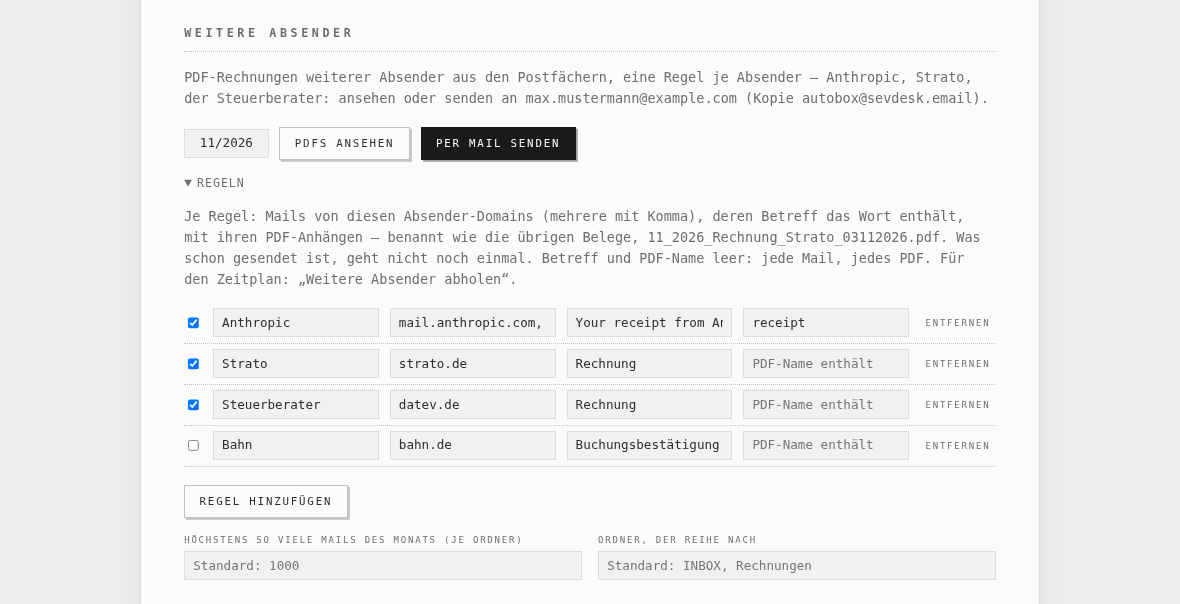
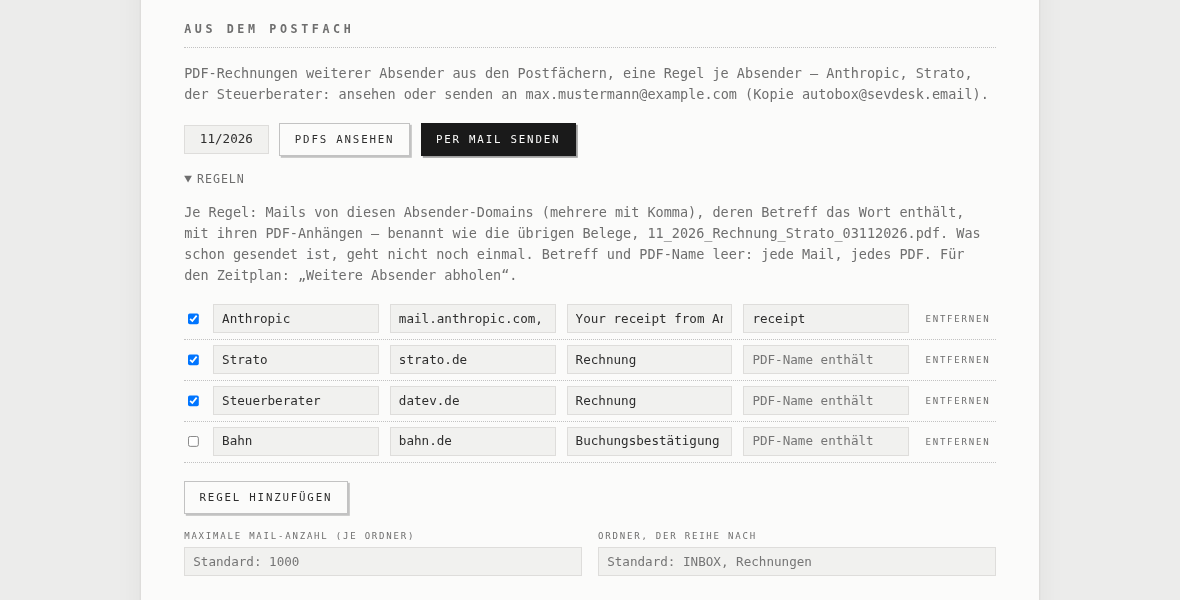
README and screenshots anew; Kundenrechnungen aus dem Postfach ablegen
Screenshots of Reisekosten, Kunden, Kundenrechnung, the rules and the
storage as the page is now. The job's title says whose invoices; the
Kundenrechnung card without "Nichts wird gemailt".

Claude-Session: https://claude.ai/code/session_01QaAjf99LPfJxqVnWJb8cvm

diff --git a/web/app.js b/web/app.js
@@ -211,7 +211,7 @@ async function loadOverview() {
   for (const span of document.querySelectorAll('[data-mail-to]')) span.textContent = mailTo();
 }
 
-const SHORT = { 'travel-expense': T('Reisekosten', 'Travel'), 'amazon-invoice': 'Amazon', 'anthropic-invoice': 'Anthropic', 'apple-invoice': 'Apple', 'vodafone-invoice': 'Vodafone', 'harvest-invoice': T('Kundenrechnung', 'Invoice'), 'mail-receipts': T('Weitere Absender', 'Further senders'), 'invoice-mails': T('Rechnungen', 'Invoices') };
+const SHORT = { 'travel-expense': T('Reisekosten', 'Travel'), 'amazon-invoice': 'Amazon', 'anthropic-invoice': 'Anthropic', 'apple-invoice': 'Apple', 'vodafone-invoice': 'Vodafone', 'harvest-invoice': T('Kundenrechnung', 'Invoice'), 'mail-receipts': T('Weitere Absender', 'Further senders'), 'invoice-mails': T('Kundenrechnungen', 'Invoices') };
 
 /** "nächster Lauf: Vodafone · Sa., 21.11. 07:30", from the schedule. */
 function nextText(next) {
@@ -247,6 +247,9 @@ const TITLES = [
   [/^Weitere Absender (\S+) ansehen/, 'Further senders $1, view'],
   [/^Weitere Absender (\S+) senden/, 'Further senders $1, send'],
   [/^Kundenrechnung aus Harvest \(laufender Monat\)/, 'Invoice from Harvest (current month)'],
+  [/^Kundenrechnungen aus dem Postfach ablegen/, 'Store invoices from the mailbox'],
+  [/^Kundenrechnungen (\S+) ansehen/, 'Invoices $1, view'],
+  [/^Kundenrechnungen (\S+) ablegen/, 'Invoices $1, store'],
   [/^Reisekosten (\S+) erzeugen/, 'Travel expenses $1, view'],
   [/^Reisekosten (\S+) senden/, 'Travel expenses $1, send'],
   [/^Anthropic-Belege (\S+) ansehen/, 'Anthropic receipts $1, view'],
@@ -1679,7 +1682,7 @@ function renderInvoiceRules(cfg) {
   cfg.InvoiceMails ??= {};
   cfg.InvoiceMails.Rules ??= [];
   return ruleList(cfg.InvoiceMails.Rules, T('Kunde, Korrespondent in Paperless', 'Customer, correspondent in Paperless'), T('Absender-Domain, z. B. sevdesk.de', 'Sender domain, e.g. sevdesk.de'),
-    T('Je Regel ein Kunde: Mails von diesen Absender-Domains (mehrere mit Komma), deren Betreff das enthält – „Kopie von Rechnung“, oder „Bestellung Nr. 4500012345“ für einen Kunden. Die Nummer kommt aus dem PDF-Namen (0203.pdf), sonst aus dem Betreff („Nr. 0203“); der Monat aus dem Zeitnachweis der Mail, sonst aus ihrem Datum. Der Zeitnachweis selbst ist keine Rechnung: er geht nur in den Ordner, wenn er dort fehlt. Für den Zeitplan: „Rechnungen aus dem Postfach ablegen“ – sieht den laufenden Monat und den davor an.',
+    T('Je Regel ein Kunde: Mails von diesen Absender-Domains (mehrere mit Komma), deren Betreff das enthält – „Kopie von Rechnung“, oder „Bestellung Nr. 4500012345“ für einen Kunden. Die Nummer kommt aus dem PDF-Namen (0203.pdf), sonst aus dem Betreff („Nr. 0203“); der Monat aus dem Zeitnachweis der Mail, sonst aus ihrem Datum. Der Zeitnachweis selbst ist keine Rechnung: er geht nur in den Ordner, wenn er dort fehlt. Für den Zeitplan: „Kundenrechnungen aus dem Postfach ablegen“ – sieht den laufenden Monat und den davor an.',
       'A customer per rule: mails from these sender domains (several with commas) whose subject contains this – “Kopie von Rechnung”, or “Bestellung Nr. 4500012345” for one customer. The number comes from the PDF\'s name (0203.pdf), else from the subject (“Nr. 0203”); the month from the mail\'s work log, else from its date. The work log is no invoice: it only goes to the folder if missing there. For the schedule: “Store invoices from the mailbox” – it looks at the current month and the one before.'));
 }
 

diff --git a/web/index.html b/web/index.html
@@ -164,7 +164,7 @@
       </details>
 
       <h2><span lang="de">Aus dem Postfach</span><span lang="en">From the mailbox</span></h2>
-      <p class="muted"><span lang="de">Die Kopie jeder versendeten Rechnung, die sevDesk schickt („Kopie von Rechnung Nr. 0203 …“): die Rechnung als 11_2026_Rechnung_0203.pdf in den Ordner für Rechnungen (Einstellungen, Ablage), neben den Zeitnachweis, und an Paperless mit dem Kunden als Korrespondent. Was schon dort liegt, bleibt. Nichts wird gemailt.</span><span lang="en">The copy of each invoice sent that sevDesk mails (“Kopie von Rechnung Nr. 0203 …”): the invoice as 11_2026_Rechnung_0203.pdf to the folder for invoices (Settings, Storage), beside the work log, and to Paperless with the customer as correspondent. What is there already stays. Nothing is mailed.</span></p>
+      <p class="muted"><span lang="de">Die Kopie jeder versendeten Rechnung, die sevDesk schickt („Kopie von Rechnung Nr. 0203 …“): die Rechnung als 11_2026_Rechnung_0203.pdf in den Ordner für Rechnungen (Einstellungen, Ablage), neben den Zeitnachweis, und an Paperless mit dem Kunden als Korrespondent. Was schon dort liegt, bleibt.</span><span lang="en">The copy of each invoice sent that sevDesk mails (“Kopie von Rechnung Nr. 0203 …”): the invoice as 11_2026_Rechnung_0203.pdf to the folder for invoices (Settings, Storage), beside the work log, and to Paperless with the customer as correspondent. What is there already stays.</span></p>
       <p class="last" data-last="invoice-mails"></p>
       <div class="actions">
         <input class="month receipt-month" data-for="rechnungen" inputmode="numeric" autocomplete="off" aria-label="Monat (M/JJJJ)" data-en-aria-label="Month (M/YYYY)">

diff --git a/schedule.go b/schedule.go
@@ -319,7 +319,7 @@ var scheduledJobs = map[string]scheduledJob{
 	"apple-invoice":    {"Apple-Rechnungen abholen", noFiles(runAppleInvoice)},
 	"vodafone-invoice": {"Vodafone-Rechnungen abholen", noFiles(runVodafoneInvoice)},
 	"mail-receipts":    {"Weitere Absender abholen", noFiles(runMailReceipts)},
-	"invoice-mails":    {"Rechnungen aus dem Postfach ablegen", noFiles(runInvoiceMails)},
+	"invoice-mails":    {"Kundenrechnungen aus dem Postfach ablegen", noFiles(runInvoiceMails)},
 	"harvest-invoice": {"Kundenrechnung aus Harvest (laufender Monat)", func(cfg *Config) ([]File, error) {
 		now := time.Now()
 		return withFile(runHarvestInvoice(cfg, now.Year(), now.Month(), false))

diff --git a/server.go b/server.go
@@ -597,7 +597,7 @@ func (s *server) invoiceMailsRun(store bool) http.HandlerFunc {
 			verb = "ablegen"
 		}
 		at := time.Date(year, month, 1, 0, 0, 0, 0, time.Local)
-		s.start(w, "invoice-mails", fmt.Sprintf("Rechnungen %d/%d %s", month, year, verb), func() ([]File, error) {
+		s.start(w, "invoice-mails", fmt.Sprintf("Kundenrechnungen %d/%d %s", month, year, verb), func() ([]File, error) {
 			var pdfs []email.Attachment
 			err := invoiceMails(cfg, at, store, &pdfs)
 			var files []File

diff --git a/README.md b/README.md
@@ -130,11 +130,11 @@ A button that sends or transfers something — a mail, the draft to sevDesk, a P
 |------|--------------|
 | **Abschluss** | The first card, the overview: the month's state at a glance — a green tick when every source is done and the invoice drafted in sevDesk, a road block while it is under way, a red cross while nothing has happened yet — then a month's books, source by source: the receipts sent for it, with when, each with an (×) that takes it out of the ledger — several at a time, the next run sends them again, until then struck through; *nichts gefunden* where a run looked and found none; *offen*, in red, where the schedule runs a source that has neither sent nor looked yet; its last run's error, and its next run. Until the closing day the month before, after it the current one; ‹ › for others. Beneath, *Steuerberater informieren*: the mail to the tax adviser as set, *Belege 11/2026* — with *Alle Belege als ZIP anhängen* the month's receipts from the storage zipped beside it — and when he was told. See [Never twice, and the month's closing](#never-twice-and-the-months-closing). |
 | **Zeitplan** | The schedule: each job with its cron expression (`minute hour day month weekday`, as in crontab, with Quartz's forms for days — see below), and beneath it in one line when it last ran — *manuell* or *zeitgesteuert*, the same day as *vor 2 h* — and its next runs, as many as fit; and a switch to turn it off. Runs by hand start on their own cards. Replaces the crontab entries — keep only one of the two, or jobs run twice. |
-| **Reisekosten** | A month calendar: which client gets which day, day trips and overnight trips, holidays, blocked days, and each day's meal allowance and mileage, with the month's totals. *Zuordnungen* gives date ranges to a client explicitly; *Gesperrte Tage* blocks vacation and the like. Both are edited as drafts — add, *bearbeiten*, *entfernen* — and saved with the *Speichern* at the bottom; until then nothing changes. *PDFs ansehen* generates the two PDFs to look at; *Per Mail senden* sends them to the address under Einstellungen › E-Mail. Below: the clients — country, state, distance, meal rates — the name on the PDFs and the Christmas week. |
-| **Belege** | Amazon, Apple and Vodafone invoices on demand, each with its settings: the Amazon and Vodafone logins, the Apple mail filter. Apple with *PDFs ansehen*, fetching them for download, and *Per Mail senden*, sending them too, after asking; Amazon and Vodafone with *Per Mail senden* only, as each run is a login, Vodafone's held to one in 28 days: Amazon and Apple by month — `11/2026`, the current one at first — Vodafone the current month's. The schedule sends the current month's. Last, *Weitere Absender*: the rules for further senders, by month to look at or to send — see [mail-receipts](#module-mail-receipts). |
+| **Reisekosten** | A month calendar: which client gets which day, day trips and overnight trips, holidays, blocked days, and each day's meal allowance and mileage, with the month's totals. *Zuordnungen* gives date ranges to a client explicitly; *Gesperrte Tage* blocks vacation and the like, *Weihnachtswoche frei* beneath. Both are edited as drafts — add, *bearbeiten*, *entfernen* — and saved with the *Speichern* at the bottom; until then nothing changes. *PDFs ansehen* generates the two PDFs to look at; *Per Mail senden* sends them to the address under Einstellungen › E-Mail. Below: the clients — country, state, distance, meal rates — and the inland rates. |
+| **Belege** | Apple, Amazon and Vodafone invoices on demand, each with its settings: the Apple mail filter, the Amazon and Vodafone logins. Apple with *PDFs ansehen*, fetching them for download, and *Per Mail senden*, sending them too, after asking; Amazon and Vodafone with *Per Mail senden* only, as each run is a login, Vodafone's held to one in 28 days: Amazon and Apple by month — `11/2026`, the current one at first — Vodafone the current month's. The schedule sends the current month's. Last, *Aus dem Postfach*: the rules for further senders, by month to look at or to send — see [mail-receipts](#module-mail-receipts). |
 | **Kundenrechnung** | *Aus Harvest anlegen* runs harvest-invoice for the month given next to it as on the command line (`11/2026`): the hours come from the Harvest API, and the month's work log PDF comes with the run for download — on iCloud Drive, say. *Nur Zeitnachweis* makes only the work log. Fewer hours than the days booked × 8 log a warning with the link to the time entries in Harvest: each day with an entry a workday of 8 hours at least, however many days a week are worked for the client. A project of the work log over its budget in Harvest — hours or money, as Harvest's project budget report has it — logs a warning too, with the link to the project; a monthly budget only for the current month, Harvest reporting only its spending. As a fallback, behind its own flap at the foot of the card, *Manuelle Eingabe*: *Leistung von*, *Leistung bis* and *Stunden gesamt* typed in — the current month at first — or filled from a work log PDF dropped in, Harvest's or one from here, and correctable either way; then *Entwurf in sevDesk anlegen* creates the draft invoice for the client, article and reference of the settings beneath — with the same duplicate check. Then *Aus dem Postfach*: the invoices sent, from the copies sevDesk mails, by month to look at (*PDFs ansehen*) or to store (*Ablegen*), with their rules folded away — see [Invoices from the mailbox](#invoices-from-the-mailbox). Folded away last on the card, *Einstellungen Kundenrechnung*: the sevDesk client, article and reference, the sevDesk login, the Harvest API token and the client's name in Harvest. |
 | **Protokoll** | The last 50 runs; a click opens a run's output under it, with the PDFs it made to download. The history is kept in `feed-my-accounting-jobs.json` next to the config; the PDFs until the server restarts, then listed by name only. Web addresses in the output are links. *Löschen* at the bottom, after *Sicher?*, empties it. |
-| **Einstellungen** | What all of them share: the **company** — its name, and its logo (PNG or JPEG, kept beside the configuration as `feed-my-accounting-logo.png`), which the work log shows instead of the name — the **employees** — the one ticked is the Lieferant on the travel expenses and whose hours in Harvest make the work log and the invoice, named as in Harvest; shown at the top right as *Mitarbeiter* — the mail account, the storage, **Paperless**, **Pushover** with *Test senden*, and the web interface's address and password. |
+| **Einstellungen** | What all of them share: the **company** — its name, and its logo (PNG or JPEG, kept beside the configuration as `feed-my-accounting-logo.png`), which the work log shows instead of the name — the **employees** — the one ticked is the Lieferant on the travel expenses and whose hours in Harvest make the work log and the invoice, named as in Harvest; shown at the top right as *Mitarbeiter* — the mail account and further mailboxes, the storage (*rclone benutzen*) and **Paperless** (*Paperless benutzen*, tags for receipts and for invoices) — each for receipts and invoices alike — **Pushover** with *Test senden*, the tax adviser's mail, and the web interface's address and password. |
 
 Passwords are never sent to the page: leave a password field empty to keep it. A field left empty shows its default as a hint.
 
@@ -399,7 +399,7 @@ paperless:
 
 Paperless on a NAS that is off most of the time is fine: each receipt waits in `feed-my-accounting-paperless/` beside the configuration until Paperless takes it — tried right after sending and every ten minutes while the web interface runs. Not reaching Paperless never fails a run; the log says how many wait. What Paperless took is noted in `feed-my-accounting-paperless/uploaded`, by its SHA-256, and not queued again — and Paperless refuses a file it has already, so a receipt uploaded twice is still one document. The customers' invoices go there too: see [Invoices from the mailbox](#invoices-from-the-mailbox).
 
-<p align="center"><img src="docs/storage.png" alt="Einstellungen: Ablage (rclone) with rclone benutzen ticked, the remote icloud and the folder Belege/{YYYY}/{MM}; beneath, Paperless with Paperless benutzen ticked, the address http://nas:8000, the API token saved and the tag Firma" width="760"></p>
+<p align="center"><img src="docs/storage.png" alt="Einstellungen: Ablage (rclone) with rclone benutzen ticked, the remote icloud, the folders Belege/{YYYY}/{MM} and Rechnungen/{YYYY}; beneath, Paperless with Paperless benutzen ticked, the address http://nas:8000, the API token saved, the tags Firma, Belege for receipts and Firma, Rechnungen for invoices" width="760"></p>
 
 ### Never twice, and the month's closing
 
@@ -709,7 +709,7 @@ harvest-invoice can run repeatedly without creating duplicate invoices: with **`
 
 ### Invoices from the mailbox
 
-Sent from sevDesk with a copy to yourself, each invoice comes back: *Kopie von Rechnung Nr. 0203 von … zur Bestellung Nr. …*, from sevdesk.de, with `0203.pdf` and the work log. The job **invoice-mails** — *Rechnungen aus dem Postfach ablegen* on the schedule, or *Ablegen* on the Kundenrechnung card by month — takes them by rules, as mail-receipts does the further senders' receipts, a rule per customer: the sender's domains, what the subject contains — *Kopie von Rechnung*, or the customer's *Bestellung Nr.* to tell customers apart — and what the PDF's name contains, if anything. sevDesk changing its mail, the rule is changed on the card. Each invoice:
+Sent from sevDesk with a copy to yourself, each invoice comes back: *Kopie von Rechnung Nr. 0203 von … zur Bestellung Nr. …*, from sevdesk.de, with `0203.pdf` and the work log. The job **invoice-mails** — *Kundenrechnungen aus dem Postfach ablegen* on the schedule, or *Ablegen* on the Kundenrechnung card by month — takes them by rules, as mail-receipts does the further senders' receipts, a rule per customer: the sender's domains, what the subject contains — *Kopie von Rechnung*, or the customer's *Bestellung Nr.* to tell customers apart — and what the PDF's name contains, if anything. sevDesk changing its mail, the rule is changed on the card. Each invoice:
 
 - is named after its number, `11_2026_Rechnung_0203.pdf`: the number the PDF's (`0203.pdf`, `RE-0203.pdf`), else the subject's (*Nr. 0203*); the month the work log's in the same mail, else the mail's — none found, it is left out, said so
 - goes to the storage's *Ordner für Rechnungen*, if rclone is used, beside its work log — once: one of that name there stays as it is. The mail's work log goes there too, should it be missing

diff --git a/CHANGELOG.md b/CHANGELOG.md
@@ -15,10 +15,12 @@ and this project adheres to [Semantic Versioning](https://semver.org/spec/v2.0.0
 ### Changed
 
 - **rclone benutzen, Paperless benutzen**: the switches on *Einstellungen*, before *Belege ablegen* and *Belege hochladen*, so named as they hold for the receipts and the invoices alike.
+- **The page**: on Belege, Apple first and the further senders' section called *Aus dem Postfach*, as on Kundenrechnung; *Weihnachtswoche frei* beneath *Gesperrte Tage*; *Maximale Mail-Anzahl (je Ordner)*; on Kundenrechnung, *Aus dem Postfach* without *Nichts wird gemailt*; *Weitere Postfächer* said to be searched for invoices too; shorter notes on Einstellungen.
 - **Paperless once**: what Paperless took is noted by its SHA-256 and not queued again.
 
 ### Fixed
 
+- README: screenshots anew — Reisekosten, Kunden, Kundenrechnung, the rules, the storage.
 - README: the work log is attached to the draft since 1.26.0, no longer "attach it manually".
 
 ## [1.26.1] - 2026-11-25
